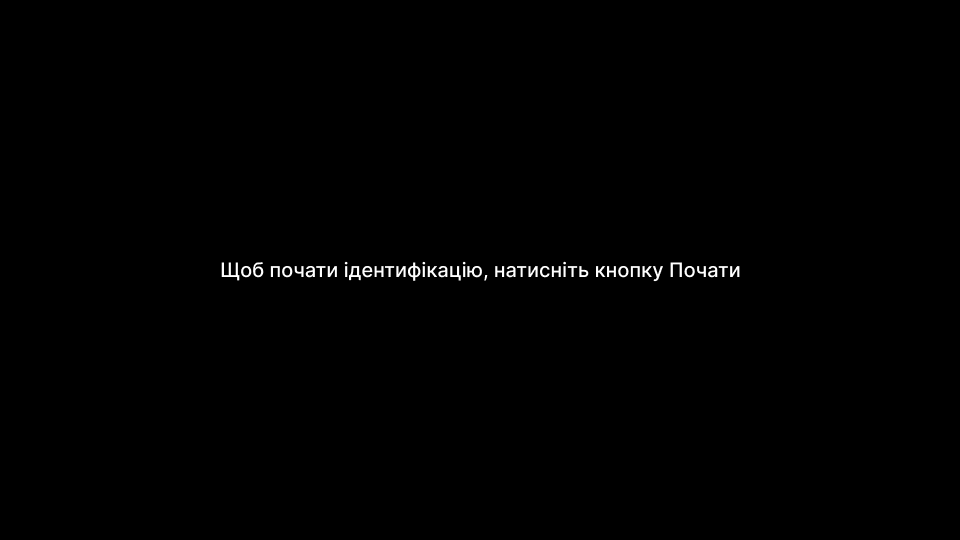
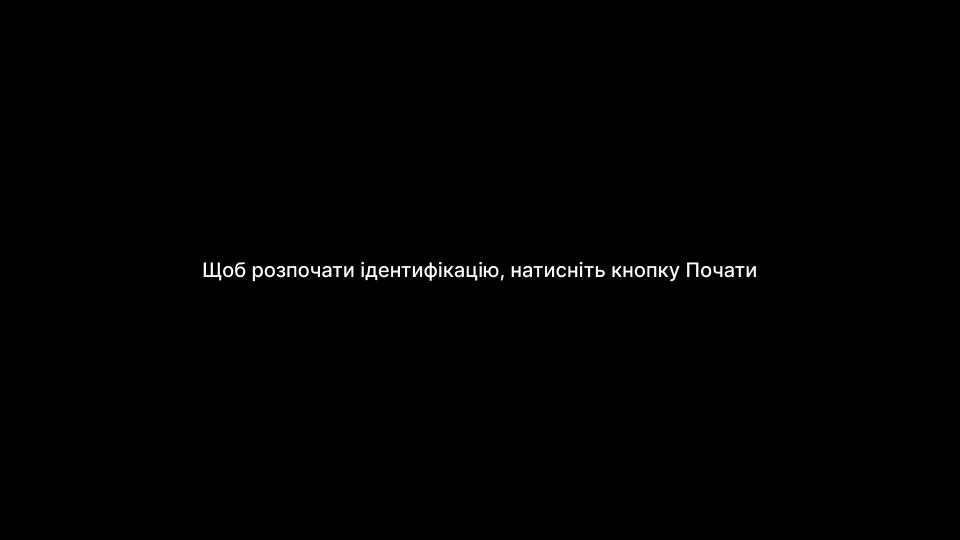
Added changes in the interface of the project

Changed region(s): [[0.2188, 0.4741, 0.7812, 0.5333]]

diff --git a/the_project/templates/add_user.html b/the_project/templates/add_user.html
@@ -1,60 +1,60 @@
 {% extends "base.html" %}
 
 {% block head %}
-<title>Registraion Form</title>
+<title>Форма реєстрації</title>
 {% endblock %}
 
 {% block body %}
 <form action="/admin/submit_form/" method="POST" class="form">
-    <h1 class="text-center">Registration Form</h1>
+    <h1 class="text-center">Форма реєстрації</h1>
     <!-- Progress bar -->
     <div class="progressbar">
         <div class="progress" id="progress"></div>
-        <div class="progress-step progress-step-active" data-title="Contact"></div>
-        <div class="progress-step" data-title="Recognition"></div>
-        <div class="progress-step" data-title="Finish"></div>
+        <div class="progress-step progress-step-active" data-title="Дані"></div>
+        <div class="progress-step" data-title="Розпізнавання"></div>
+        <div class="progress-step" data-title="Завершення"></div>
     </div>
 
     <!-- Steps -->
     <div class="form-step form-step-active">
         <div class="input-group">
-            <label for="name" >Name *</label>
+            <label for="name" >Ім'я *</label>
             <input type="text" name="name" id="name" required/>
         </div>
         <div class="input-group">
-            <label for="address" >Address *</label>
+            <label for="address" >Адреса *</label>
             <input type="text" name="address" id="address" required/>
         </div>
         <div class="">
-            <a class="btn btn-next width-50 ml-auto" onclick="buttonNext()">Next</a>
+            <a class="btn btn-next width-50 ml-auto" onclick="buttonNext()">Далі</a>
         </div>
-        <p id="next-alert" style="display: none;">Required fields aren't filled!</p>
+        <p id="next-alert" style="display: none;">Обов'язкові поля не заповнені!</p>
     </div>
 
     <div class="form-step">
-        <h2>Face rec here</h2>
-        <div class="rectangle">
-            <img id="preview" src="../images/person.jpg"/>
+        <h2>Розпізнавання обличчя</h2>
+        <div class="rectangle rectangle-100">
+            <img id="preview" src="../images/identification.png"/>
             <canvas id="video" width="960" height="540" style="display: none; margin-left: auto; margin-right: auto;"/>
         </div>
 
         <div class="btns-group">
-            <a id="start" class="btn" onclick="showHide('preview', 'video', 1)">Start</a>
-            <a id="photo" class="btn" onclick="takePhoto()" style="display: none;">Take photo</a>
+            <a id="start" class="btn-start" onclick="showHide('preview', 'video', 1)">Почати</a>
+            <a id="photo" class="btn btn-photo" onclick="takePhoto()" style="display: none;">Зробити фото</a>
         </div>
 
-        <p id="photo-text" ><span id="saved-photos">0</span>/5 photos taken</p>
+        <p id="photo-text" ><span id="saved-photos">0</span>/5 фотографій зроблено</p>
 
         <div class="btns-group">
-            <a class="btn btn-prev" onclick="buttonPrevios()">Previous</a>
-            <a class="btn" onclick="submitForm()">Submit</a>
+            <a class="btn" onclick="buttonPrevios()">Попередній крок</a>
+            <a class="btn" onclick="submitForm()">Підтвердити та відправити</a>
         </div>
-        <p id="submit-alert" style="display: none;">The photos aren't taken</p>
+        <p id="submit-alert" style="display: none;">Фотографії не зроблені</p>
     </div>
 
     <div class="form-step">
-        <h2>User was successfully added!</h2>
-        <a class="btn btn-center" href="/admin">Admin page</a>
+        <h2>Користувача було успішно додано!</h2>
+        <a class="btn btn-center" href="/admin">Адмін сторінка</a>
     </div>
 </form>
 {% endblock %}

diff --git a/the_project/static/main.css b/the_project/static/main.css
@@ -110,6 +110,13 @@ p a:hover {
   margin-bottom: 50px;
 }
 
+.rectangle-100 {
+    width: 100%;
+    width: 100%;
+    width: 100%;
+    height: auto;
+}
+
 #preview, #video {
   width: 100%;
   display: block;
@@ -210,7 +217,7 @@ p a:hover {
 /******************************** ADMIN PAGE *************************************/
 .add_btn
 {
-  background-color: #149E8B; /* Green */
+  background-color: #149E6C; /* Green */
   border: none;
   color: white;
   padding: 15px 32px;
@@ -226,7 +233,7 @@ p a:hover {
 
 .add_btn:hover
 {
- background-color: #43B1A2;
+ background-color: #43B189;
 }
 
 table, td, th {
@@ -597,6 +604,10 @@ input {
   background-color: white;
 }
 
+div.input-group input{
+    font-size: 14px;
+}
+
 div.input-group label {
   text-align: left;
   color: #222222;
@@ -646,6 +657,36 @@ div.input-group label {
   cursor: pointer;
   transition: 0.3s;
   position: relative;
+}
+
+.btn-start {
+    font-family: 'Montserrat','Helvetica','Arial';
+    padding: 0.75rem;
+    display: block;
+    text-decoration: none;
+    border: 2px solid #149E6C;
+    color: #149E6C;
+    text-align: center;
+    border-radius: 0.25rem;
+    cursor: pointer;
+    transition: 0.3s;
+    position: relative;
+    font-weight:600;
+}
+
+.btn-start:hover {
+     border: 2px solid #43B189;
+     color: #43B189;
+     font-weight:600;
+}
+
+
+.btn-photo {
+    background-color: #149E6C;
+}
+
+.btn-photo:hover {
+    background-color: #43B189;
 }
 
 .btn-center {

diff --git a/the_project/templates/admin.html b/the_project/templates/admin.html
@@ -12,15 +12,15 @@
 <!--    <a href="/multi_form_test/" class="btn">Multi Form Test</a>-->
     <a href="/add_user/" class="add_btn">Додати користувача</a>
     {% if users|length < 1 %}
-    <h4 style="text-align: center">There are no users yet</h4>
+    <h4 style="text-align: center">Користувачів ще немає</h4>
     <img id="preview" src="../images/void.png" style="width:40%; margin:0 auto;"/>
     {% else %}
     <table>
         <tr>
-            <th>Name</th>
-            <th>Address</th>
-            <th>Created at</th>
-            <th>Actions</th>
+            <th>Ім'я</th>
+            <th>Адреса</th>
+            <th>Дата створення</th>
+            <th>Дії</th>
         </tr>
         {% for user in users %}
         <tr>

diff --git a/the_project/static/main.js b/the_project/static/main.js
@@ -167,6 +167,7 @@ function takePhoto() {
         }
         if (encodings.length == 5) {
             btn_photo.classList.remove('btn');
+            btn_photo.classList.remove('btn-photo');
             btn_photo.classList.add('btn-disabled');
         }
     }
